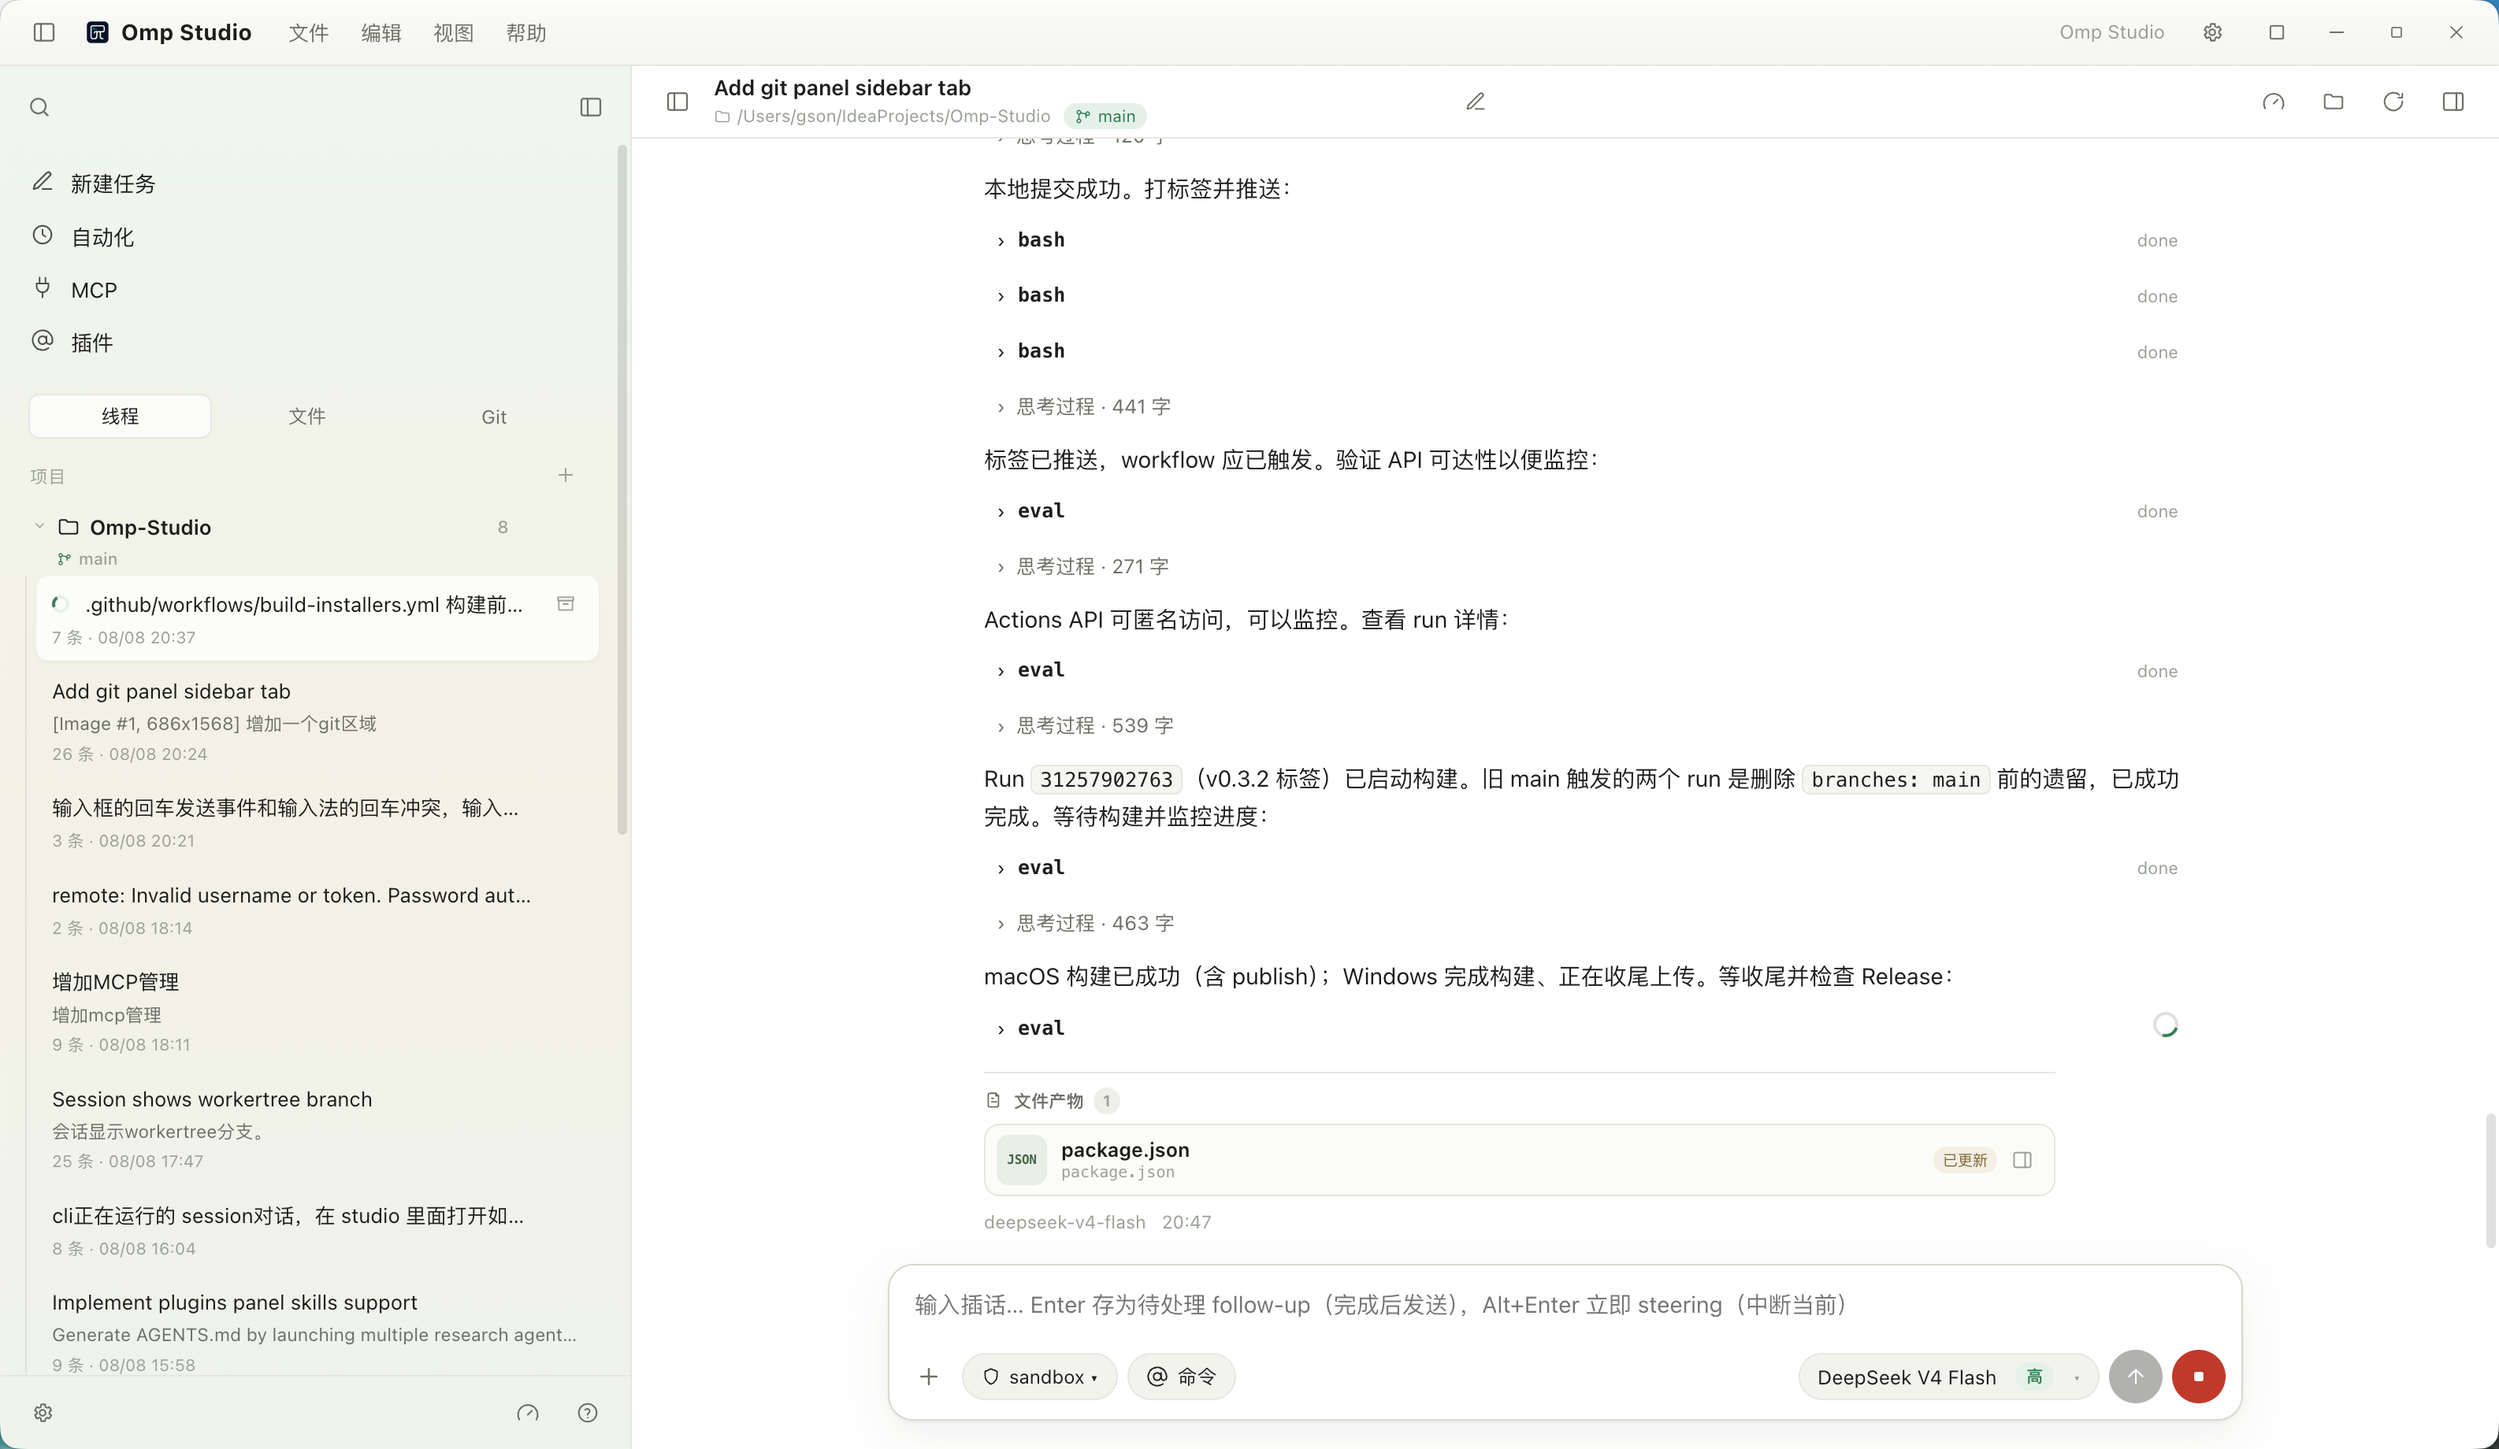
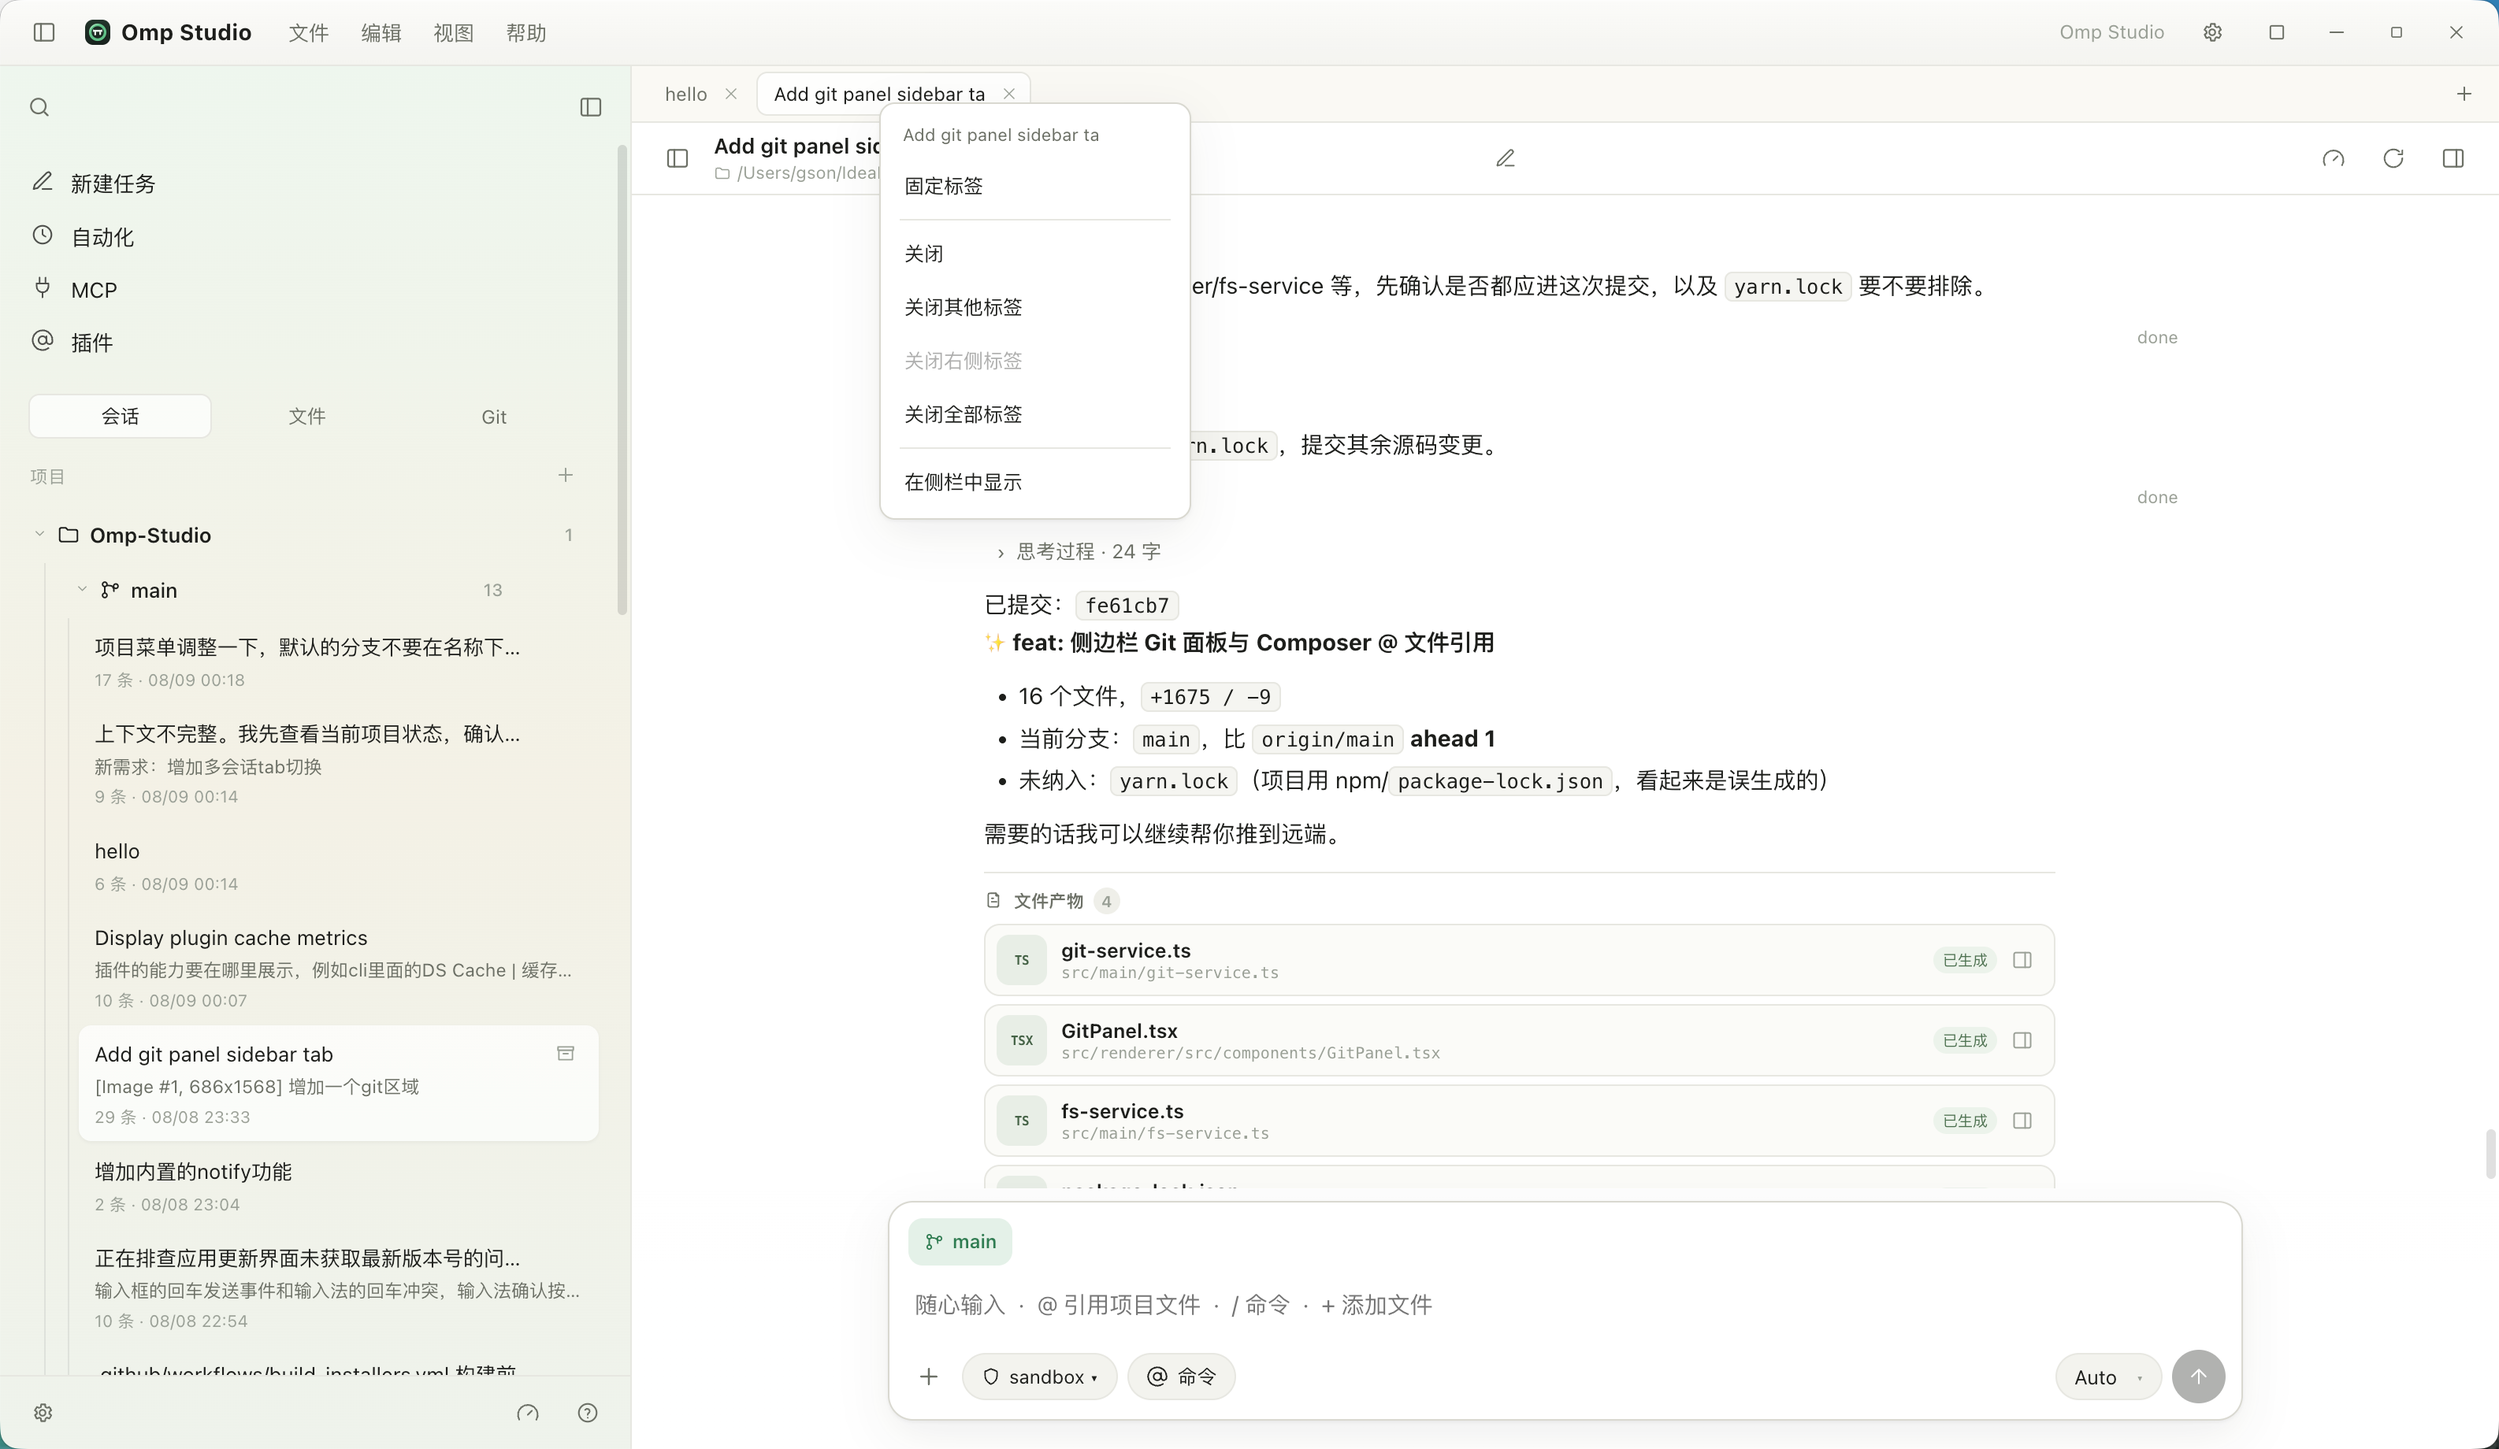
✨ feat: README 添加首页与项目截图

diff --git a/README.md b/README.md
@@ -17,6 +17,10 @@ Current release: `0.5.0` (Windows x64 and macOS arm64 installers).
 - Keep a versioned omp runtime embedded in each installer and support app-managed runtime updates.
 - Use a permission gate for shell commands, project boundaries, and extension actions.
 
+## Screenshots
+
+![Home and projects](guide-assets/01-home-and-projects.png)
+
 ## Download
 
 Download the latest `Omp-Studio-Setup-<version>.exe` for Windows x64 or `Omp-Studio-<version>-arm64.dmg` for Apple Silicon macOS from GitHub Releases. The installers are currently unsigned, so Windows SmartScreen or macOS Gatekeeper may show a warning.
